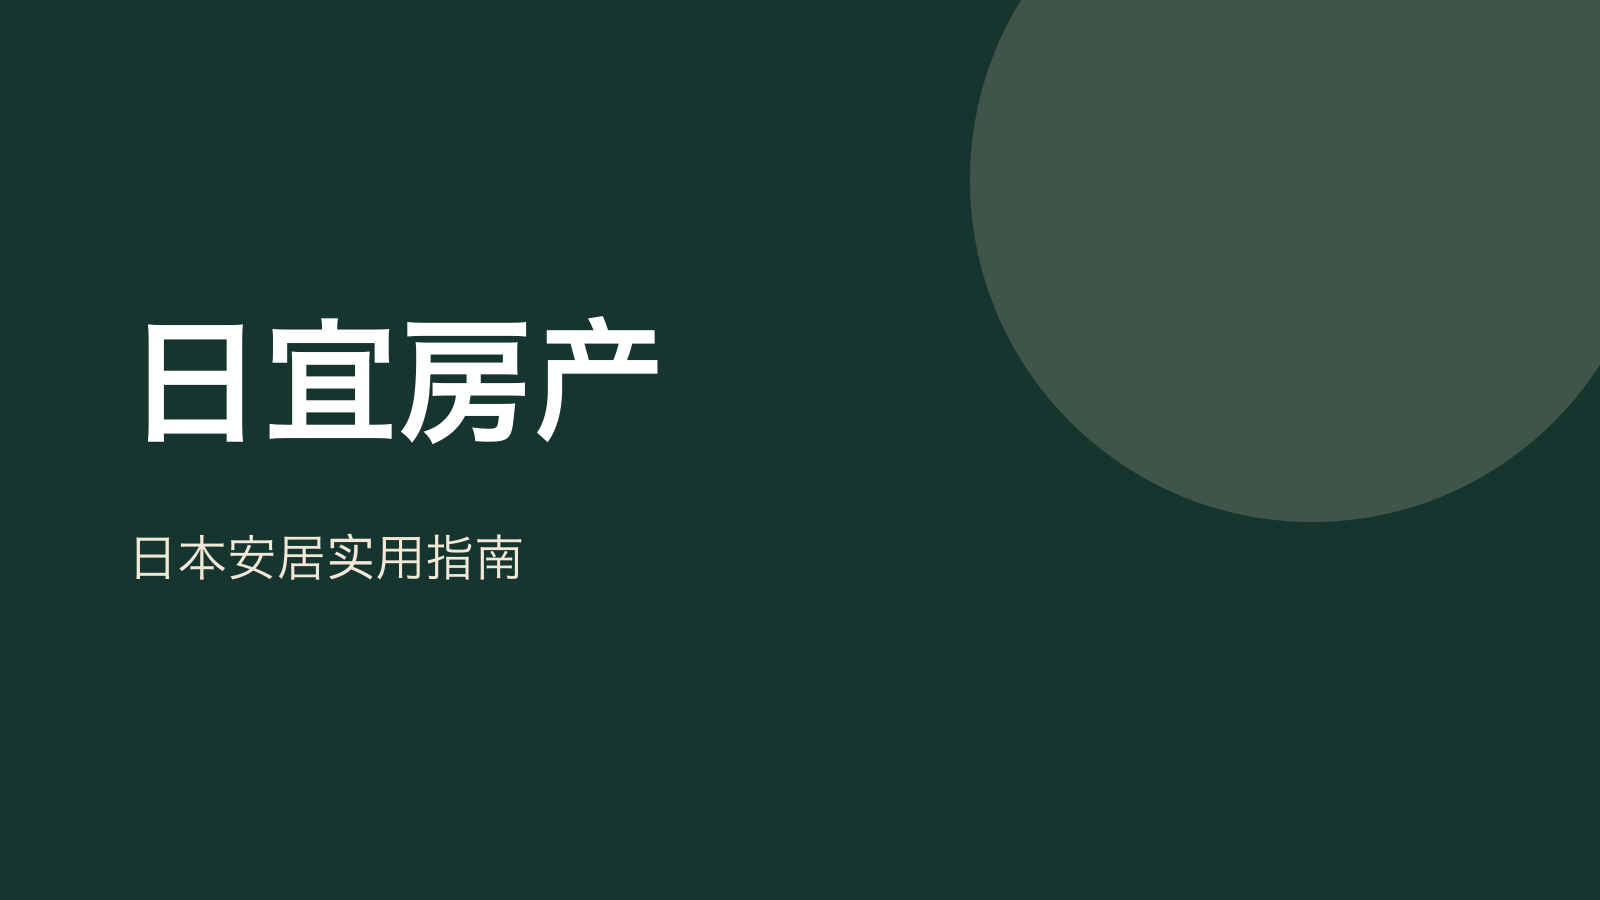
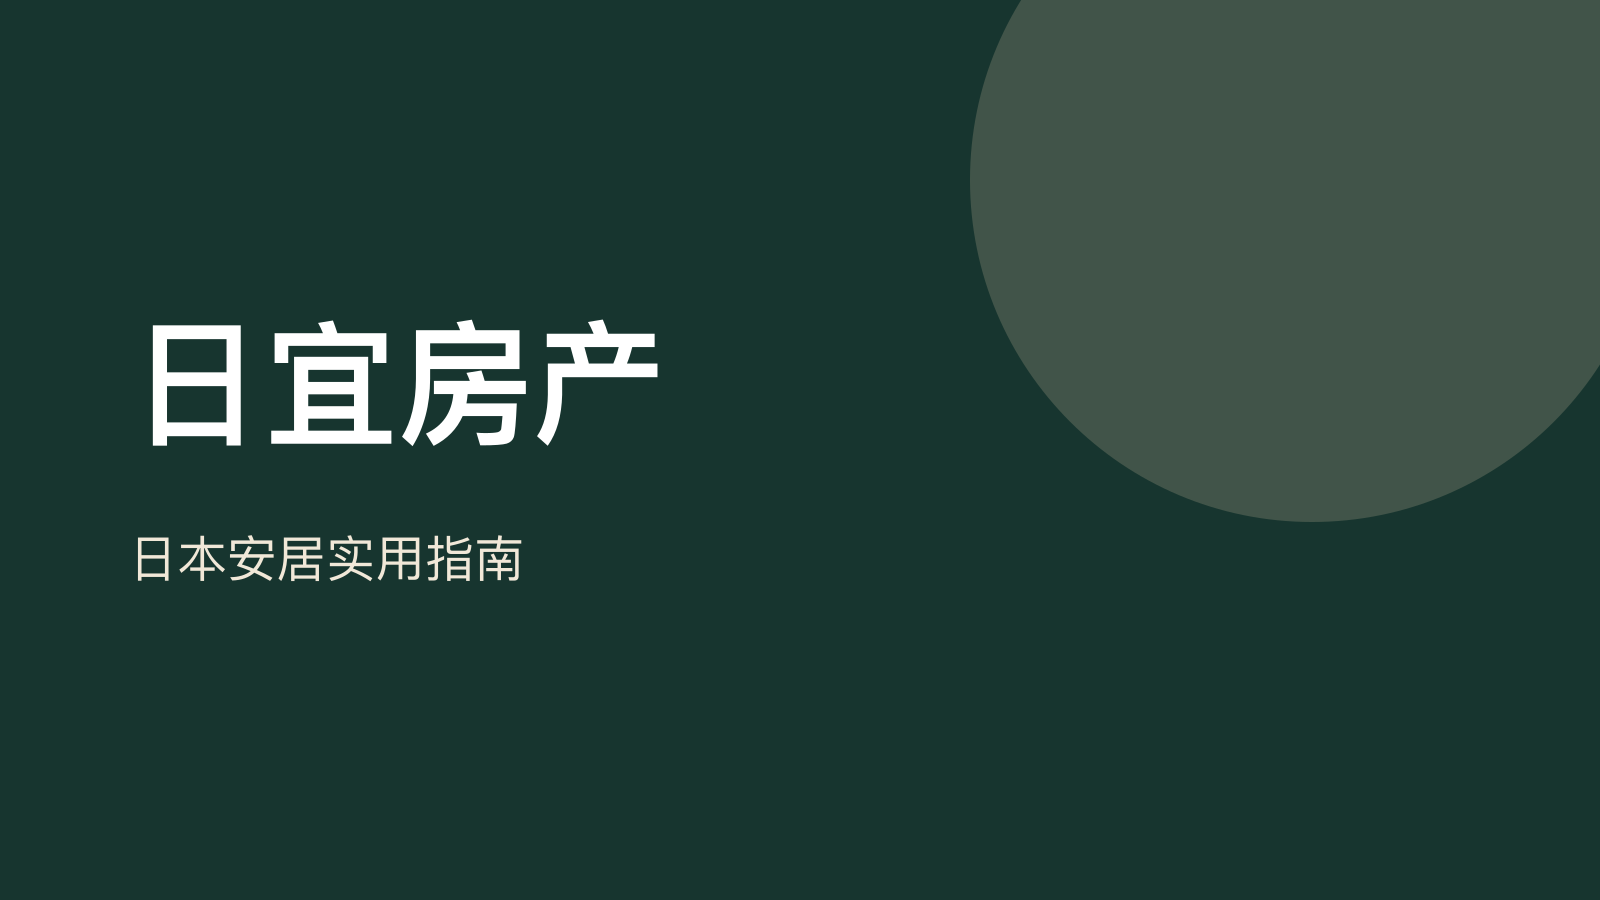
content: present riyi as the official website

Changed region(s): [[0.0938, 0.3422, 0.4062, 0.4978], [0.0938, 0.5911, 0.3438, 0.6533]]

diff --git a/scripts/brand/generate-assets.ts b/scripts/brand/generate-assets.ts
@@ -18,10 +18,10 @@ async function render(
       <circle cx="${width * 0.82}" cy="${height * 0.2}" r="${height * 0.38}" fill="#d7c3a4" opacity=".22"/>
       <text x="${width * 0.08}" y="${height * 0.48}" fill="#ffffff"
         font-size="${height * 0.15}" font-weight="700"
-        font-family="Hiragino Sans, PingFang SC, sans-serif">${title}</text>
+        font-family="PingFang SC, Microsoft YaHei, sans-serif">${title}</text>
       <text x="${width * 0.08}" y="${height * 0.64}" fill="#f1e8d8"
         font-size="${height * 0.055}"
-        font-family="Hiragino Sans, PingFang SC, sans-serif">${subtitle}</text>
+        font-family="PingFang SC, Microsoft YaHei, sans-serif">${subtitle}</text>
     </svg>`;
   await sharp(Buffer.from(svg)).png().toFile(output);
 }
@@ -37,6 +37,6 @@ await render(
   resolve(root, "site/public/brand/og-default.png"),
   1200,
   630,
-  "日宜房产博客",
+  "日宜房产",
   "租房 · 买房 · 区域 · 日本生活",
 );

diff --git a/tests/site.test.ts b/tests/site.test.ts
@@ -1,4 +1,5 @@
 import { access, readFile } from "node:fs/promises";
+import matter from "gray-matter";
 import { describe, expect, it } from "vitest";
 import { NAV_ITEMS } from "../src/navigation.js";
 import { PLATFORM_LINKS } from "../src/platform-links.js";
@@ -68,6 +69,14 @@ describe("site contract", () => {
         "site/404.md",
       ].map((path) => expect(access(path)).resolves.toBeUndefined()),
     );
+  });
+
+  it("uses the official-site identity on the homepage", async () => {
+    const source = await readFile("site/index.md", "utf8");
+    const { data } = matter(source);
+
+    expect(data.title).toBe(SITE_TITLE);
+    expect(data.description).toBe(SITE_DESCRIPTION);
   });
 
   it("does not rewrite native directory article routes on the client", () => {

diff --git a/tests/seo.test.ts b/tests/seo.test.ts
@@ -103,6 +103,8 @@ describe("SEO", () => {
     expect(xml).toContain(
       "https://www.riyihome.com/posts/79f45644-f457-4b94-a288-44780fd8f199/",
     );
+    expect(xml).toContain("<title>日宜房产资讯</title>");
+    expect(xml).not.toContain("<title>日宜房产博客</title>");
     expect(xml).toContain("欢迎来到日宜房产博客");
     expect(xml).not.toContain("draft");
   });

diff --git a/tests/pages-cms-config.test.ts b/tests/pages-cms-config.test.ts
@@ -62,7 +62,7 @@ describe("Pages CMS configuration", () => {
     expect(config.actions).toEqual([
       expect.objectContaining({
         name: "redeploy",
-        label: "重新部署博客",
+        label: "重新部署官网",
         workflow: "deploy.yml",
         ref: "current",
         cancelable: false,

diff --git a/scripts/rss.ts b/scripts/rss.ts
@@ -13,7 +13,7 @@ export async function writeRss(
   outputPath: string,
 ): Promise<void> {
   const feed = new Feed({
-    title: `${SITE_TITLE}博客`,
+    title: `${SITE_TITLE}资讯`,
     description: SITE_DESCRIPTION,
     id: SITE_URL,
     link: SITE_URL,

diff --git a/site/.vitepress/config.ts b/site/.vitepress/config.ts
@@ -27,7 +27,7 @@ export default defineConfig({
       {
         rel: "alternate",
         type: "application/rss+xml",
-        title: `${SITE_TITLE}博客 RSS`,
+        title: `${SITE_TITLE}资讯 RSS`,
         href: "/rss.xml",
       },
     ],

diff --git a/site/about/index.md b/site/about/index.md
@@ -1,11 +1,40 @@
 ---
 title: 关于日宜
-description: 了解日宜房产和本博客的内容方向。
+description: 了解日宜房产的日本房产服务、找房方式与实用内容。
 article: false
 ---
 
 # 关于日宜
 
-日宜房产关注在日本租房、买房和安居过程中真正影响选择的信息。这个博客把房源页面之外需要慢慢说明的经验整理成文章，帮助读者更清楚地理解区域、流程、费用和生活条件。
+日宜房产面向计划在日本租房、买房与长期生活的人，提供房源信息、找房咨询和实用内容。这个官网把找房入口与需要慢慢说明的知识放在一起，帮助你从了解情况走到实际选择。
 
-[返回日宜房产平台](https://riyihome.com)
+## 我们是谁
+
+日宜关注的不只是一套房子的价格与面积，也包括入住流程、通勤方式、生活配套，以及每天真实发生的居住体验。
+
+你可以在这里阅读日本租房、买房、区域选择与日常生活相关内容；准备开始找房时，也可以直接进入日宜房产平台或与我们沟通需求。
+
+## 我们在解决什么问题
+
+找房困难往往不是因为信息太少，而是信息分散、重复、难以比较，重要条件又容易被忽略。语言、流程和沟通方式上的差异，也会增加在日本找房的不确定感。
+
+日宜希望把重要信息整理得更直观、更清楚，让你知道该看什么、该问什么，再决定下一步。
+
+## 我们怎么做
+
+- **用更直观的方式了解房源**：通过图片、短视频和清晰说明，先理解空间、采光与动线。
+- **把生活圈放进选择里**：结合学校、通勤、购物和日常节奏，不只比较地址与面积。
+- **整理与核验重要信息**：减少重复、过期和难以理解的内容，让关键条件更容易比较。
+- **让咨询承接实际需求**：围绕预算、区域、入住时间和生活计划继续沟通。
+
+## 我们相信
+
+> 房子不是冷冰冰的数据，而是每天起床后的动线、下楼会遇到的便利店，以及回家那一刻的安心感。
+
+所以找房这件事，应该更直观、更清晰，也更贴近真实生活。
+
+## 开始你的找房计划
+
+- [查看日宜房源](https://riyihome.com)
+- [提交找房需求](https://riyihome.com/index.html#/pages/project/advisory)
+- [微信咨询](https://work.weixin.qq.com/kfid/kfcc5d6c8170e5733d0)

diff --git a/content/posts/79f45644-f457-4b94-a288-44780fd8f199.md b/content/posts/79f45644-f457-4b94-a288-44780fd8f199.md
@@ -1,6 +1,6 @@
 ---
 id: 79f45644-f457-4b94-a288-44780fd8f199
-title: 欢迎来到日宜房产博客
+title: 欢迎来到日宜房产官网
 description: 这里将持续整理日本租房、买房、区域选择和日常生活中值得提前了解的实用信息。
 coverImg: /media/riyihome-intro.png
 categories:
@@ -15,8 +15,8 @@ sticky: 1
 status: published
 ---
 
-欢迎来到日宜房产博客。
+欢迎来到日宜房产官网。
 
-房源页面适合快速比较价格、面积和交通，但在日本安居还需要理解契约流程、初期费用、区域特点和生活条件。我们会在这里把这些需要慢慢说明的内容整理成容易查找的文章。
+这里既是日宜的官方信息入口，也是持续更新的房产内容中心。房源页面适合快速比较价格、面积和交通，但在日本安居还需要理解契约流程、初期费用、区域特点和生活条件。我们会把这些需要慢慢说明的内容整理成容易查找的文章。
 
 后续内容将围绕租房指南、买房指南、日本生活、区域介绍和房产政策持续更新。

diff --git a/site/privacy/index.md b/site/privacy/index.md
@@ -1,11 +1,11 @@
 ---
 title: 隐私政策
-description: 日宜房产博客的隐私和外部服务说明。
+description: 日宜房产官网的隐私和外部服务说明。
 article: false
 ---
 
 # 隐私政策
 
-本博客第一版不提供注册、评论、在线咨询或表单，不在博客服务器保存访客提交的个人信息。
+本官网不提供注册、评论或站内表单，不在官网服务器保存访客主动提交的个人信息。
 
-网站通过阿里云 OSS 与 CDN 提供静态内容。若日后启用访问统计，会在本页列明服务名称、用途和退出方式；未配置统计 ID 时不加载统计脚本。点击“房产平台”等外部链接后，适用目标网站自己的隐私政策。
+网站通过阿里云 OSS 与 CDN 提供静态内容。若日后启用访问统计，会在本页列明服务名称、用途和退出方式；未配置统计 ID 时不加载统计脚本。点击“查看房源”“提交需求”或“微信咨询”等外部链接后，适用目标网站或服务自己的隐私政策。

diff --git a/site/404.md b/site/404.md
@@ -1,7 +1,7 @@
 ---
 layout: page
 title: 页面未找到
-description: 请求的日宜房产博客页面不存在。
+description: 请求的日宜房产官网页面不存在。
 article: false
 sidebar: false
 ---
@@ -10,4 +10,4 @@ sidebar: false
 
 这个链接可能已经失效，或文章已被归档。
 
-[返回博客首页](/) · [前往日宜房产平台](https://riyihome.com)
+[返回官网首页](/) · [前往日宜房产平台](https://riyihome.com)

diff --git a/site/index.md b/site/index.md
@@ -1,6 +1,6 @@
 ---
 layout: home
 article: false
-title: 日宜房产博客
-description: 分享日本租房、买房、区域选择与日常生活的实用信息。
+title: 日宜房产
+description: 日宜房产提供日本房产租赁、买卖与安居服务，并整理区域选择、流程费用和日常生活的实用内容。
 ---

diff --git a/site/archives/index.md b/site/archives/index.md
@@ -1,6 +1,6 @@
 ---
 title: 文章归档
-description: 按时间查看日宜房产博客已经发布的文章。
+description: 按时间查看日宜房产官网已经发布的文章。
 archivesPage: true
 layout: page
 article: false
